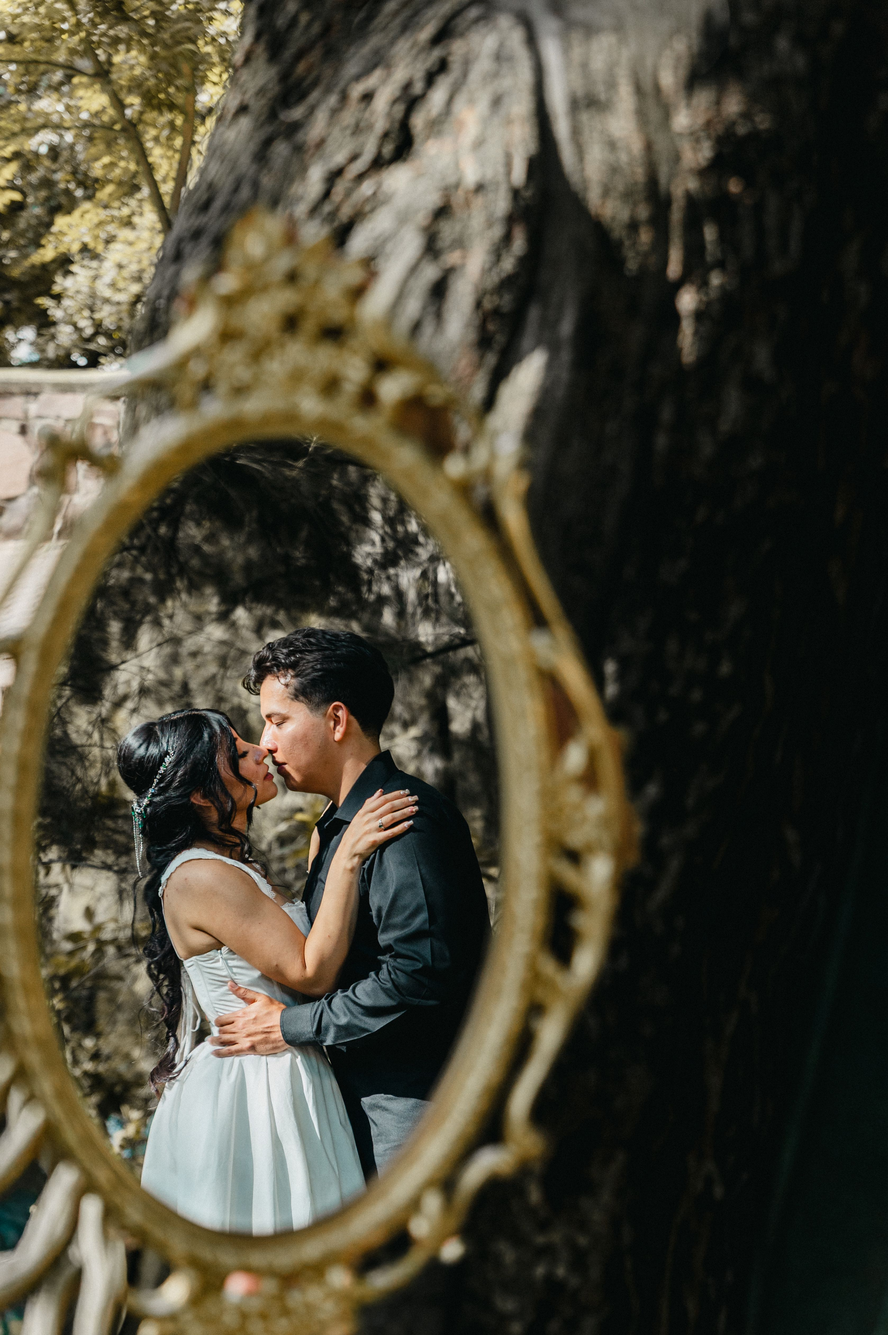
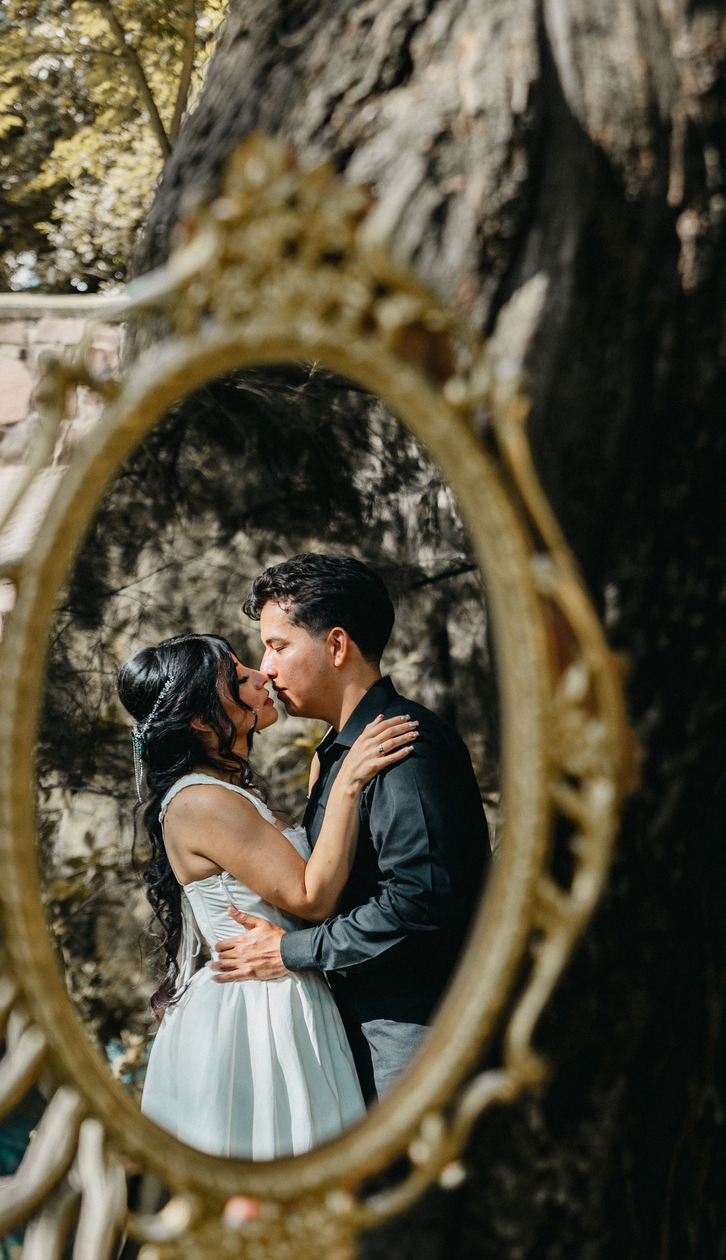
last changes 1.2

diff --git a/index.html b/index.html
@@ -356,14 +356,14 @@
                 <h2 id="subtitulo">Damas de Honor</h2>
                 <div class="divisor-medieval">✦ ⚜ ✦</div>
 
-                <ul class="lista-damas">
+                <div class="lista-damas">
                     <h4>Emelyn Lamas Solis ✦
                         <br>✦ Carmen Ramirez Rosales
                         <br> Rosa Iriana Magaña Olivera ✦
                         <br>✦ Lizbeth Magaña Olivera
                         <br> Estefani Magaña Olivera ✦
                      </h4>
-                </ul>
+                </div>
             </div>
             <div>
                 <h2 id="subtitulo">Padrinos</h2>
@@ -431,7 +431,7 @@
                         <div class="hora">7:00 PM</div>
                         <div class="tarjeta">
                             <h3>Primer baile</h3>
-                            <p>Bajo la Luz de las Estrellas</p>
+                            <p>Beloved</p>
                         </div>
                     </div>
                 </div>
@@ -599,7 +599,7 @@
         </div>
 
         <div class="galeria-pinterest">
-            
+
             <div class="item-galeria">
                 <img src="/sesion/Sesión-53.jpg" alt="Recuerdo 2">
             </div>

diff --git a/style.css b/style.css
@@ -195,7 +195,7 @@ h4 {
     font-family: "Fleur De Leah", serif;
     color: rgb(13, 100, 64);
     text-align: center;
-     justify-content: center;
+    justify-content: center;
     align-items: center;
     overflow: hidden;
     transform: translateY(100px);
@@ -211,7 +211,7 @@ h4 {
 }
 
 .titulo {
-    margin-top: 500px;
+    margin-top: 400px;
     /* Elimina cualquier margen superior si lo hay */
 }
 
